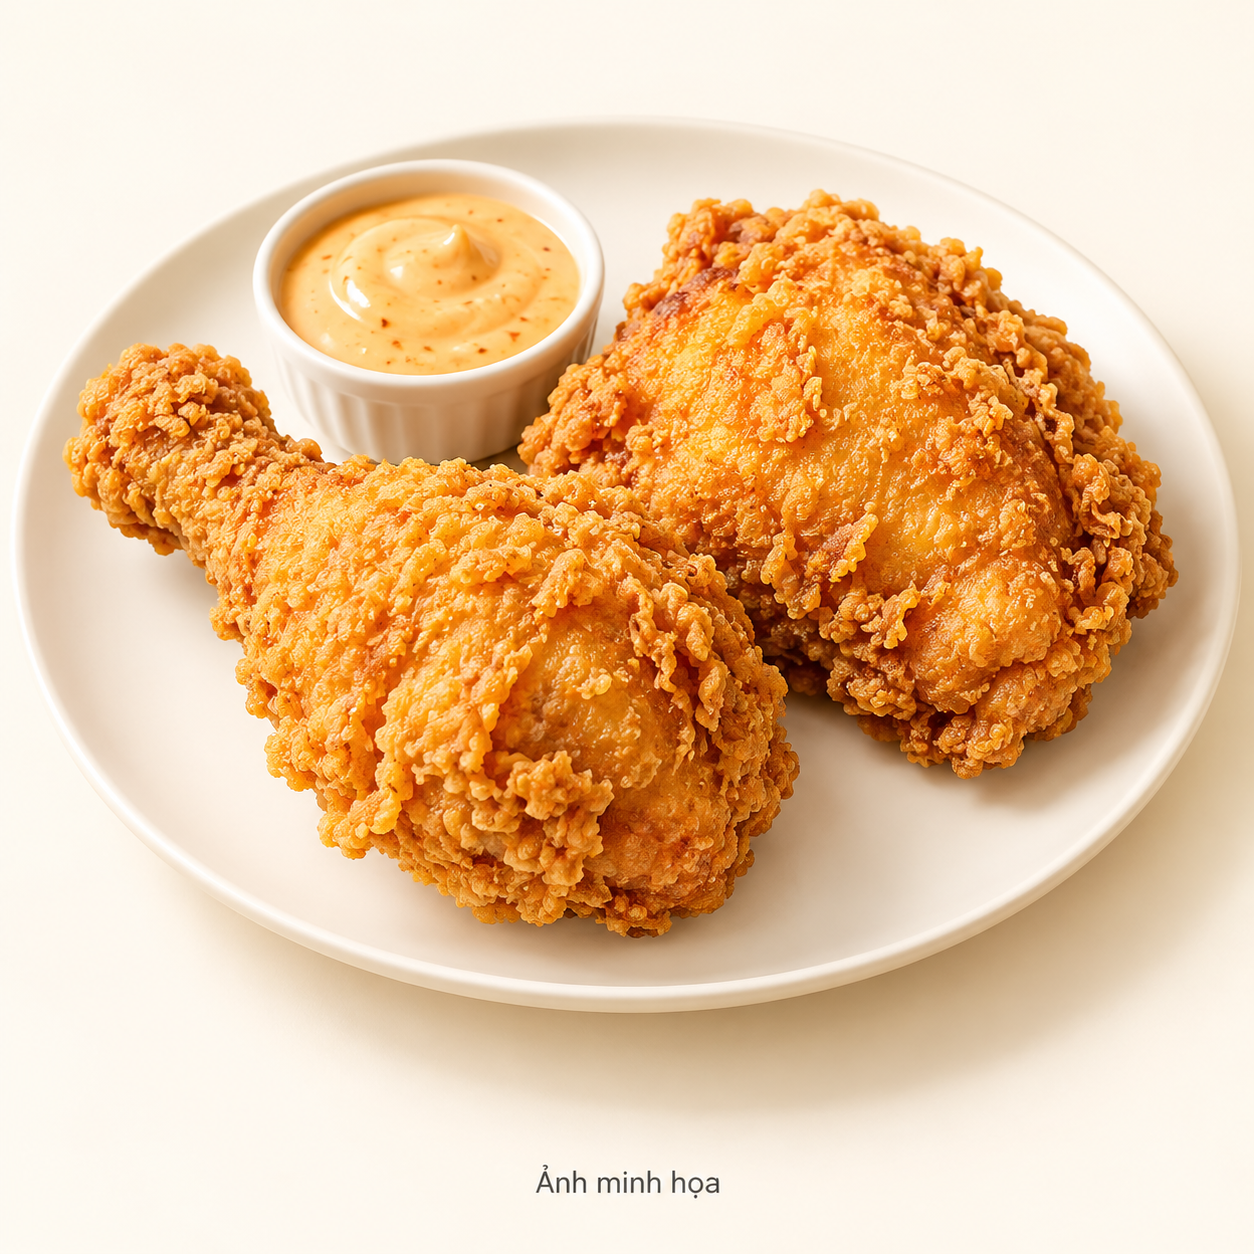
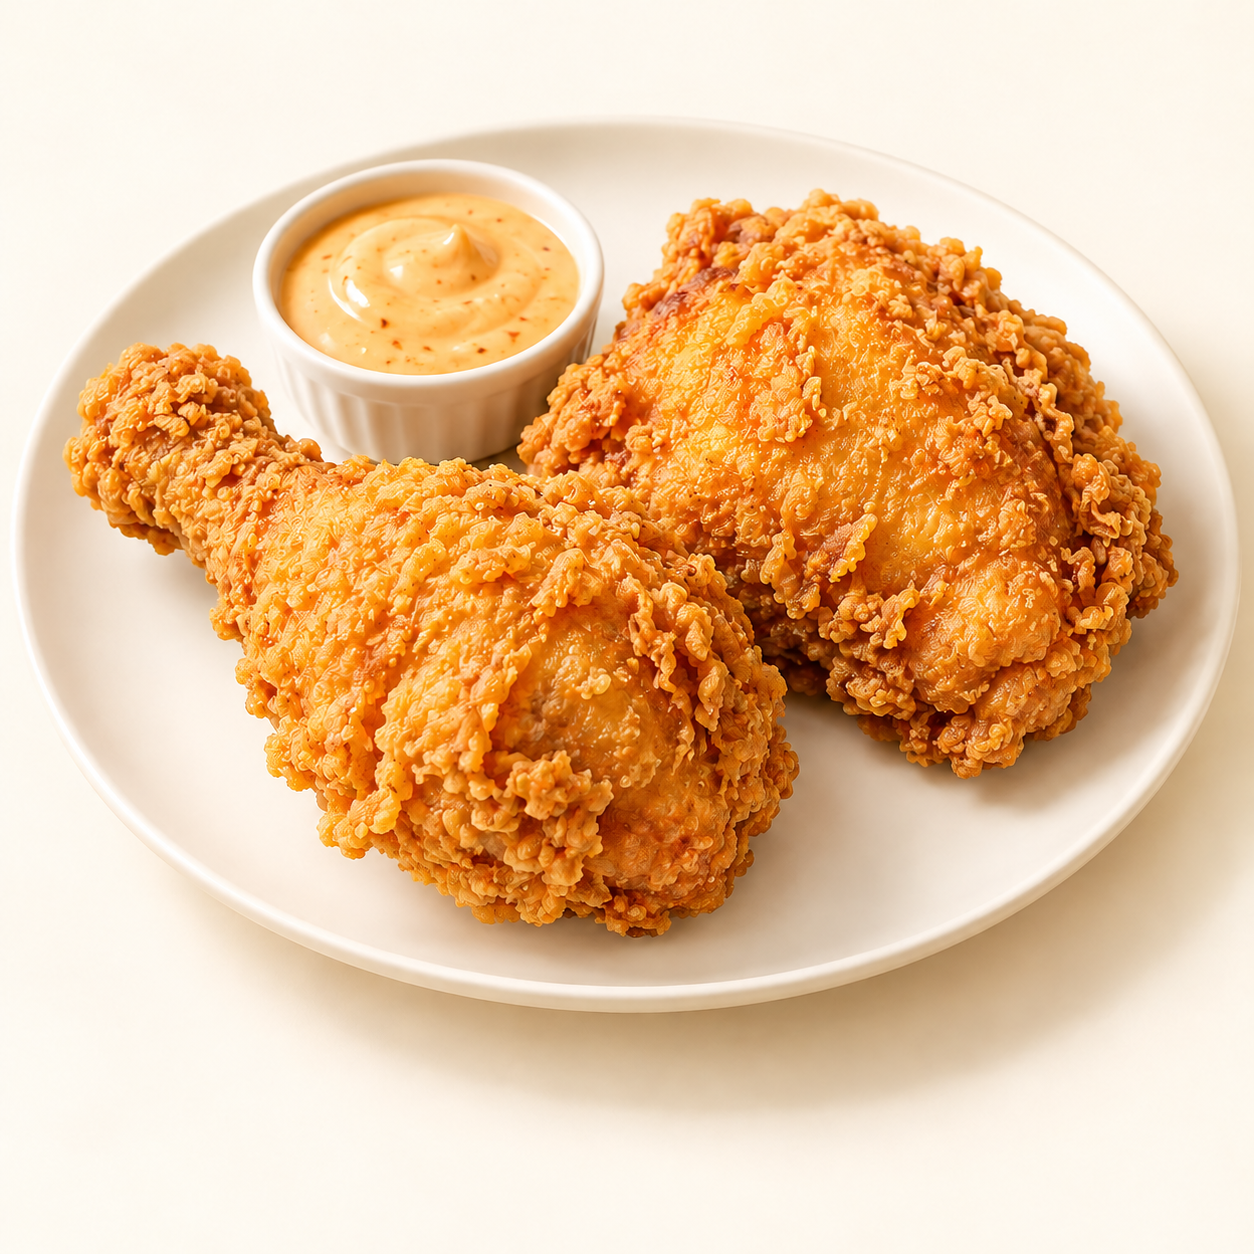
Remove illustration captions from five food images

Changed region(s): [[0.0622, 0.1555, 0.933, 0.7464], [0.4354, 0.933, 0.5909, 0.9641]]

diff --git a/images/SOURCES.md b/images/SOURCES.md
@@ -20,7 +20,7 @@ Hai ảnh được tạo bằng AI theo yêu cầu người dùng, tham chiếu 
 
 ## Ảnh thực đơn tạo ngày 25/10/2026
 
-Năm ảnh dưới được tạo bằng AI theo mô tả món, nền kem và có dòng “Ảnh minh họa”; không phải ảnh chụp phần ăn thực tế.
+Năm ảnh dưới được tạo bằng AI theo mô tả món, nền kem; dòng chữ trên ảnh đã được xóa theo yêu cầu; không phải ảnh chụp phần ăn thực tế.
 
 - `combo-mot-minh-vui.png`
 - `ga-gion-doi-ban.png`
